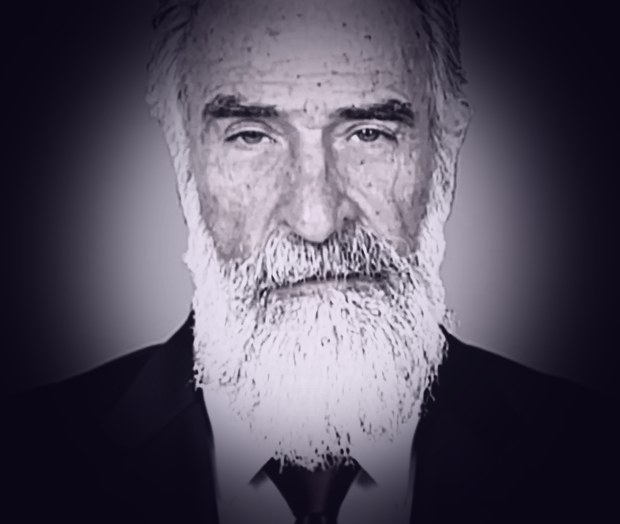
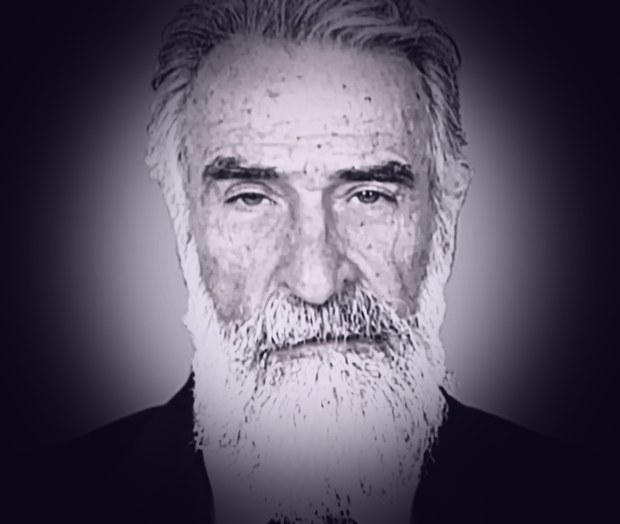
Calendario oficial, faculty y contenido nuevo del Excel

Changed region(s): [[0.1226, 0.0, 0.8581, 0.9466], [0.3984, 0.7328, 0.6129, 1.0]]

diff --git a/index.html b/index.html
@@ -311,7 +311,7 @@ input,select,textarea{background:transparent;color:#FFFFFF;border-color:#2A1B45}
 <span class="section-label">Para quién</span>
 <h2 class="display-md" style="margin-top:.75rem">Mandos medios hacia arriba con visión integral</h2>
 <div class="audience-grid">
-<div class="audience-card"><h4>Chief Risk Officer y Deputy CRO</h4><p>Obtiene la visión multi-sectorial y multi-jurisdiccional que su puesto ya exige, y practica el terreno donde hoy se juega el cargo: el trato con el equipo directivo y el Consejo, no la hoja de cálculo.</p></div><div class="audience-card"><h4>Director de Administración de Riesgos y responsable de UAIR</h4><p>Diseña o rescata la función completa: tres líneas de defensa, charter del Comité de Riesgos, líneas de reporte y ubicación del CRO. Sale con el blueprint del operating model y un RAS de una página ligado a la estrategia.</p></div><div class="audience-card"><h4>Director de Finanzas</h4><p>Cierra el puente entre capital, liquidez y riesgo. Trabaja ICAAP, capital planning bajo Basilea III y IV, y la decisión de balance del ALCO justificada por NII contra EVE, el mismo terreno donde negocia con el CRO y con el regulador.</p></div><div class="audience-card"><h4>Tesorero, Head of Treasury y ALM Manager</h4><p>El módulo IX entrega cálculo de LCR y NSFR y diseño de la curva FTP, y el módulo X pone al participante a decidir estrategia de balance ante un escenario de tasas. Es su trabajo diario, defendido ante un comité que lo cuestiona.</p></div><div class="audience-card"><h4>Director de crédito y oficial de crédito</h4><p>El módulo VIII construye un motor de scoring con regresión logística y modelos de machine learning, más la auditoría de sesgo y explicabilidad. Le permite aprobar, condicionar o rechazar un modelo de originación con evidencia y no por intuición.</p></div><div class="audience-card"><h4>Subdirector y gerente de riesgo de mercado</h4><p>Market Risk Core y FRTB suman 13 sesiones: reporte diario de riesgo de un libro simulado con P&amp;L Explain, gestión de un breach de límite, cálculo del cargo SA y el paquete de defensa ante el supervisor.</p></div><div class="audience-card"><h4>Consejero y miembro del Comité de Riesgos y de Auditoría</h4><p>Aprende a leer y a retar el board pack: dashboard de apetito, watchlist, red flags y narrativa. El módulo XXIV arma el Comité desde el charter, el quórum y las facultades delegadas hasta la trazabilidad de la decisión.</p></div><div class="audience-card"><h4>Director de riesgo en financieras corporativas</h4><p>El programa incluye explícitamente el sector de brazos crediticios masivos sin buffers bancarios, con referencias a Ford Credit, GM Financial, Coppel y Liverpool, y lo cruza con crédito, liquidez y capital en cada módulo.</p></div><div class="audience-card"><h4>Director general y director de riesgo de SOFIPOs, SOFOMs y fintechs</h4><p>Atiende crédito concentrado, fondeo frágil, riesgo de modelo, liquidez digital y conduct risk bajo CNBV. Incluye ERM simplificado para SOFIPOs y un teardown de riesgo de fintech con marco de control mínimo viable.</p></div><div class="audience-card"><h4>Regulador y supervisor de CNBV, Banxico, CONSAR, CNSF y CONDUSEF</h4><p>El programa une a reguladores y regulados en la misma aula para generar visión bidireccional. El supervisor obtiene la misma profundidad técnica del supervisado, incluida supervisión data-driven y evaluación de la calidad del apetito de riesgo.</p></div><div class="audience-card"><h4>Actuario, analista de riesgo senior y model validator</h4><p>Suma la capa ejecutiva que le falta a un perfil técnico: gobierno de modelos, dictamen de validación de IA con evidencia, y la traducción del riesgo técnico al lenguaje del Consejo y del regulador.</p></div><div class="audience-card"><h4>Compliance officer, head de auditoría interna y director de gobierno corporativo</h4><p>Cubre AML, sanciones y fraude con red team, casos de falla de gobierno como Barings y Wirecard, cumplimiento bajo Basilea III y IV, Solvency II, CNBV, CONSAR, CNSF, y divulgación de Pilar 3.</p></div></div><p class="rm-industrias"><span>Industrias:</span> Banca · Seguros · Pensiones · Broker-Dealers · Corporativos · Financieras Corporativas · Fintechs · SOFIPOs y SOFOMs · Reguladores y supervisores</p><p class="rm-industrias"><span>Industrias:</span> Banca · Seguros · Pensiones · Broker-Dealers · Corporativos · Financieras Corporativas · Fintechs · SOFIPOs y SOFOMs · Reguladores y supervisores</p><p class="rm-industrias"><span>Industrias:</span> Banca · Seguros · Pensiones · Broker-Dealers · Corporativos · Financieras Corporativas · Fintechs · SOFIPOs y SOFOMs · Reguladores y supervisores</p><p class="rm-industrias"><span>Industrias:</span> Banca · Seguros · Pensiones · Broker-Dealers · Corporativos · Financieras Corporativas · Fintechs · SOFIPOs y SOFOMs · Reguladores y supervisores</p></div></section>
+<div class="audience-card"><h4>Chief Risk Officer y Deputy CRO</h4><p>Obtiene la visión multi-sectorial y multi-jurisdiccional que su puesto ya exige, y practica el terreno donde hoy se juega el cargo: el trato con el equipo directivo y el Consejo, no la hoja de cálculo.</p></div><div class="audience-card"><h4>Director de Administración de Riesgos y responsable de UAIR</h4><p>Diseña o rescata la función completa: tres líneas de defensa, charter del Comité de Riesgos, líneas de reporte y ubicación del CRO. Sale con el blueprint del operating model y un RAS de una página ligado a la estrategia.</p></div><div class="audience-card"><h4>Director de Finanzas</h4><p>Cierra el puente entre capital, liquidez y riesgo. Trabaja ICAAP, capital planning bajo Basilea III y IV, y la decisión de balance del ALCO justificada por NII contra EVE, el mismo terreno donde negocia con el CRO y con el regulador.</p></div><div class="audience-card"><h4>Tesorero, Head of Treasury y ALM Manager</h4><p>El módulo IX entrega cálculo de LCR y NSFR y diseño de la curva FTP, y el módulo X pone al participante a decidir estrategia de balance ante un escenario de tasas. Es su trabajo diario, defendido ante un comité que lo cuestiona.</p></div><div class="audience-card"><h4>Director de crédito y oficial de crédito</h4><p>El módulo VIII construye un motor de scoring con regresión logística y modelos de machine learning, más la auditoría de sesgo y explicabilidad. Le permite aprobar, condicionar o rechazar un modelo de originación con evidencia y no por intuición.</p></div><div class="audience-card"><h4>Subdirector y gerente de riesgo de mercado</h4><p>Market Risk Core y FRTB suman 13 sesiones: reporte diario de riesgo de un libro simulado con P&amp;L Explain, gestión de un breach de límite, cálculo del cargo SA y el paquete de defensa ante el supervisor.</p></div><div class="audience-card"><h4>Consejero y miembro del Comité de Riesgos y de Auditoría</h4><p>Aprende a leer y a retar el board pack: dashboard de apetito, watchlist, red flags y narrativa. El módulo XXIV arma el Comité desde el charter, el quórum y las facultades delegadas hasta la trazabilidad de la decisión.</p></div><div class="audience-card"><h4>Director de riesgo en financieras corporativas</h4><p>El programa incluye explícitamente el sector de brazos crediticios masivos sin buffers bancarios, con referencias a Ford Credit, GM Financial, Coppel y Liverpool, y lo cruza con crédito, liquidez y capital en cada módulo.</p></div><div class="audience-card"><h4>Director general y director de riesgo de SOFIPOs, SOFOMs y fintechs</h4><p>Atiende crédito concentrado, fondeo frágil, riesgo de modelo, liquidez digital y conduct risk bajo CNBV. Incluye ERM simplificado para SOFIPOs y un teardown de riesgo de fintech con marco de control mínimo viable.</p></div><div class="audience-card"><h4>Regulador y supervisor de CNBV, Banxico, CONSAR, CNSF y CONDUSEF</h4><p>El programa une a reguladores y regulados en la misma aula para generar visión bidireccional. El supervisor obtiene la misma profundidad técnica del supervisado, incluida supervisión data-driven y evaluación de la calidad del apetito de riesgo.</p></div><div class="audience-card"><h4>Actuario, analista de riesgo senior y model validator</h4><p>Suma la capa ejecutiva que le falta a un perfil técnico: gobierno de modelos, dictamen de validación de IA con evidencia, y la traducción del riesgo técnico al lenguaje del Consejo y del regulador.</p></div><div class="audience-card"><h4>Compliance officer, head de auditoría interna y director de gobierno corporativo</h4><p>Cubre AML, sanciones y fraude con red team, casos de falla de gobierno como Barings y Wirecard, cumplimiento bajo Basilea III y IV, Solvency II, CNBV, CONSAR, CNSF, y divulgación de Pilar 3.</p></div></div><p class="rm-industrias"><span>Industrias:</span> Banca · Seguros · Pensiones · Broker-Dealers · Corporativos · Financieras Corporativas · Fintechs · SOFIPOs y SOFOMs · Reguladores y supervisores</p><p class="rm-industrias"><span>Industrias:</span> Banca · Seguros · Pensiones · Broker-Dealers · Corporativos · Financieras Corporativas · Fintechs · SOFIPOs y SOFOMs · Reguladores y supervisores</p><p class="rm-industrias"><span>Industrias:</span> Banca · Seguros · Pensiones · Broker-Dealers · Corporativos · Financieras Corporativas · Fintechs · SOFIPOs y SOFOMs · Reguladores y supervisores</p><p class="rm-industrias"><span>Industrias:</span> Banca · Seguros · Pensiones · Broker-Dealers · Corporativos · Financieras Corporativas · Fintechs · SOFIPOs y SOFOMs · Reguladores y supervisores</p><p class="rm-industrias"><span>Industrias:</span> Banca · Seguros · Pensiones · Broker-Dealers · Corporativos · Financieras Corporativas · Fintechs · SOFIPOs y SOFOMs · Reguladores y supervisores</p></div></section>
 
 <section class="curriculum-section" id="curriculum"><div class="container">
 <span class="section-label">Arquitectura del programa</span>
